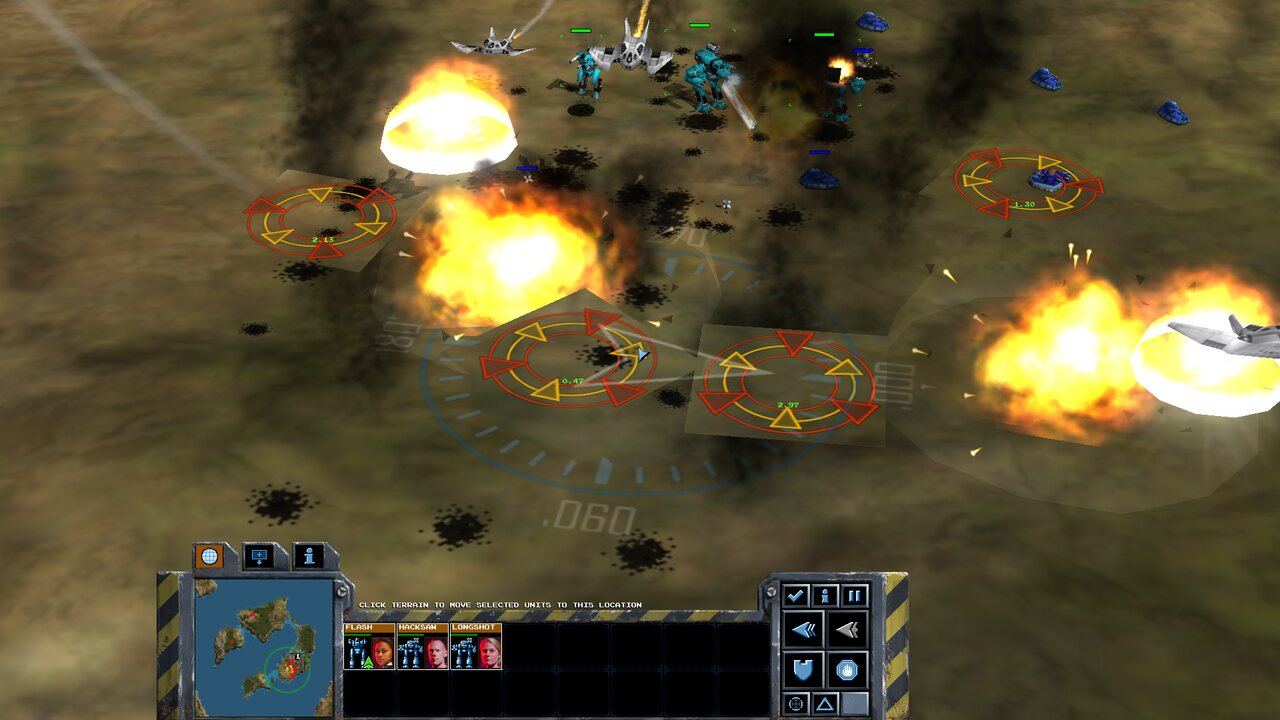
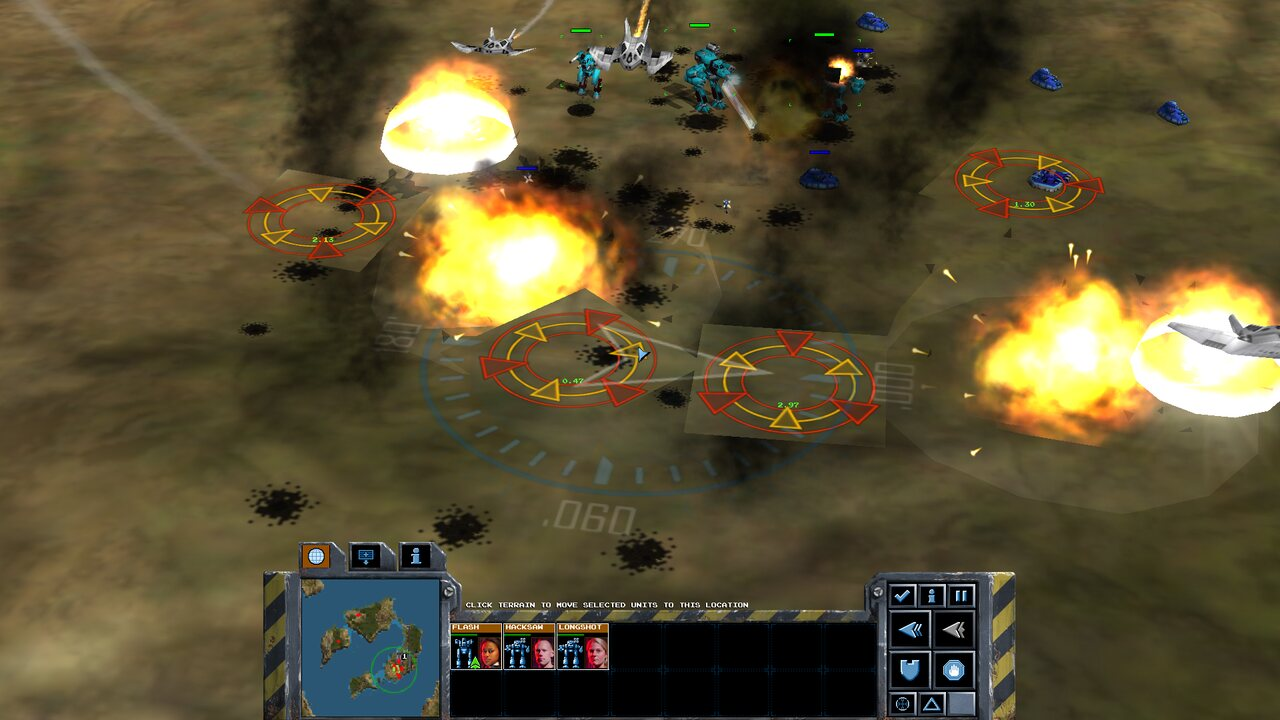
fix: HUD review fixes; README images all at 1920x1080
The pilot video's caption added the layout offset to coordinates already
absolute, so it was off-screen at 1280 and up. The win or lose banner is now
centred when the layout is narrower than the screen, as with Omnitech at 1920.
README images reshot with the centred HUD, all at one size.

Changed region(s): [[0.0938, 0.7333, 0.8125, 1.0]]

diff --git a/code/controlgui.cpp b/code/controlgui.cpp
@@ -2505,8 +2505,9 @@ void ControlGui::initStatics( FitIniFile& file )
 	file.readIdLong( "right", 	videoTextRect.right );
 	file.readIdLong( "top", 	videoTextRect.top );
 	file.readIdLong( "bottom", 	videoTextRect.bottom );
-	videoTextRect.left += videoOffsetX;
-	videoTextRect.right += videoOffsetX;
+	// absolute in the file, like the frame around the video
+	videoTextRect.left += videoStaticShift;
+	videoTextRect.right += videoStaticShift;
 
 
 	if ( videoInfoCount )
@@ -2547,7 +2548,7 @@ void ControlGui::initStatics( FitIniFile& file )
 		for ( i = 0; i < missionStatusInfoCount; i++ )
 		{
 			sprintf( blockName, "ResultsStatic%d", i );
-			missionStatusInfos[i].init( file, blockName );
+			missionStatusInfos[i].init( file, blockName, videoStaticShift / 2 );
 
 		}
 	}
@@ -2558,6 +2559,9 @@ void ControlGui::initStatics( FitIniFile& file )
 	file.readIdLong( "top", missionStatusRect.rect.top );	
 	file.readIdLong( "bottom", missionStatusRect.rect.bottom );	
 	file.readIdLong( "ResultsTextColor", missionStatusRect.color );	
+	// centred on the layout's width, which may be narrower than the screen
+	missionStatusRect.rect.left += videoStaticShift / 2;
+	missionStatusRect.rect.right += videoStaticShift / 2;
 
 	file.seekBlock( "ChatPlayerNameRect" );
 	long left, top, width, height;

diff --git a/mclib/hud_layout.h b/mclib/hud_layout.h
@@ -35,7 +35,8 @@ inline long hudRightEdgeShift(int screenWidth, int layoutWidth)
 	return screenWidth - layoutWidth;
 }
 
-// How tall the screen a layout's yOffset is measured against, less that offset.
+// The HUD's coordinates end this far down, so the screen's height less this is
+// where they start: it sits on the bottom edge at any height.
 inline long hudBaseHeight(int layoutWidth)
 {
 	return layoutWidth == 640 ? 480 : layoutWidth == 800 ? 600 : 768;

diff --git a/planning/HARDWARE-TESTS.md b/planning/HARDWARE-TESTS.md
@@ -18,7 +18,9 @@ Renderers: **GL** is a desktop GL build (`MC2_GLES=OFF`), **GLES** a GLES build
 - [ ] **HUD at 1920x1080 and 2560x1440** (`hud-centre`). The HUD is centred. Click
       the force icons, minimap and command buttons: each reacts where it is
       drawn. A pilot video shows at the top right, framed, not off-screen. GL or
-      GLES. CI and screenshots show the position, not the clicks or the video.
+      GLES. CI and screenshots show the position, not the clicks or the video. The
+      video's caption now sits under it, on screen; at 1920 it is off to the left.
+      The win or lose banner is centred, also with Omnitech at 1920.
 - [ ] **Omnitech at 1920x1080** (`hud-centre`). A mission plays, on its 1600 layout,
       with the same checks.
 - [ ] **Dragging a mech out of the force group** (`fix/noticed-bugs`). In the

diff --git a/README.md b/README.md
@@ -19,7 +19,8 @@ Touch controllers.
 | ![A desert battle in the Omnitech Desert Fox campaign](media/omnitech.jpg) | ![Mechs standing among temple-like buildings and banners in mission 22](media/town.jpg) |
 | *The fan-made [MechCommander Omnitech](https://www.moddb.com/mods/mechcommander-omnitech) and its Desert Fox campaign* | *A quieter moment: mechs among the buildings of mission 22* |
 
-Scripted battles from the desktop build (`scripts/bench.sh --scenario`). The
+Scripted battles from the desktop build at 1920x1080
+(`scripts/bench.sh --scenario`). The
 game data, and Omnitech's, are not in this repository.
 
 The main branch is called `pi-port` and the repository `mc2-pi` for
